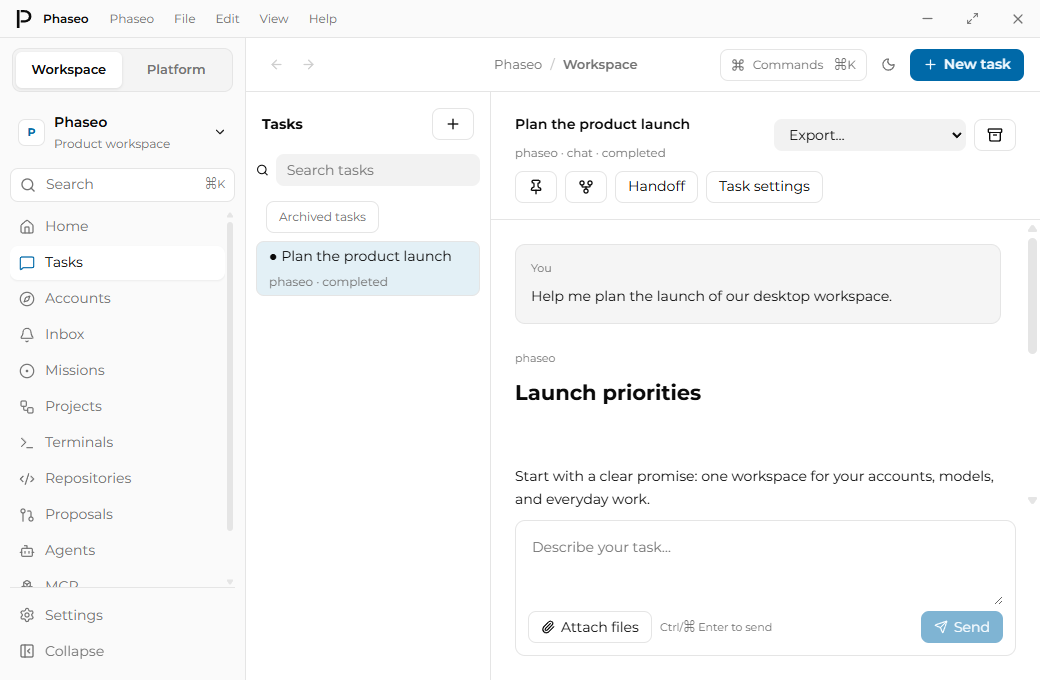
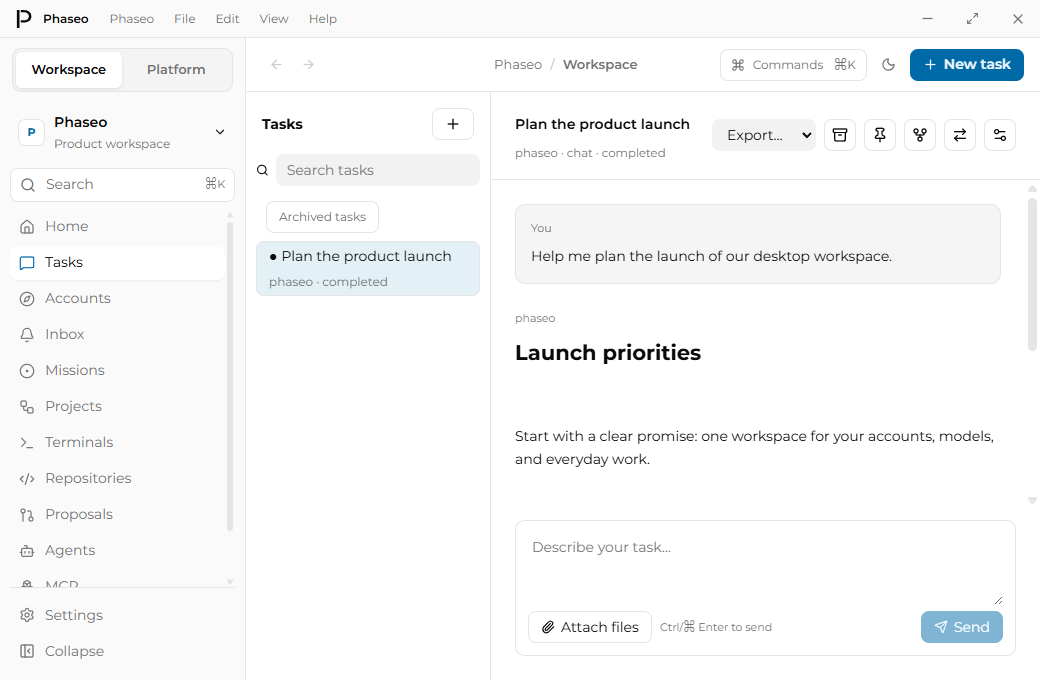
fix(desktop): simplify compact conversation toolbar

diff --git a/apps/desktop/src/renderer/views/TaskWorkspace.tsx b/apps/desktop/src/renderer/views/TaskWorkspace.tsx
@@ -1,5 +1,5 @@
 import { lazy, Suspense, useEffect, useState } from "react";
-import { Archive, ArrowDown, ArrowUp, FolderOpen, GitFork, Paperclip, Pin, Plus, Search, Send, Square, X } from "lucide-react";
+import { Archive, ArrowDown, ArrowRightLeft, ArrowUp, FolderOpen, GitFork, Paperclip, Pin, Plus, Search, Send, Settings2, Square, X } from "lucide-react";
 import type { Attachment, Harness, ModelOption, Task, Workspace, WorkspaceCommand } from "../../shared/workspace";
 import { emptyWorkspace } from "../../shared/workspace";
 import { usePersistedState } from "../lib/persistedState";
@@ -117,8 +117,8 @@ export function TaskWorkspace() {
 					<button type="button" aria-label={selected.archived ? "Restore task" : "Archive task"} disabled={selected.status === "running" || selected.status === "waiting"} onClick={() => { void command({ type: "update-task", id: selected.id, archived: !selected.archived }).then(state => { if (state) setSelectedId(undefined); }); }}><Archive size={16} /></button>
 					<button type="button" aria-label={selected.pinned ? "Unpin task" : "Pin task"} onClick={() => void command({ type: "update-task", id: selected.id, pinned: !selected.pinned })}><Pin size={16} /></button>
 					<button type="button" aria-label="Fork task history" onClick={() => { void command({ type: "fork", id: selected.id }).then(state => { if (state) setSelectedId(state.tasks.find(task => !workspace.tasks.some(existing => existing.id === task.id))?.id); }); }}><GitFork size={16} /></button>
-					<button type="button" disabled={selected.status === "running" || selected.status === "waiting"} onClick={() => { setHandoffId(selected.id); setProjectId(workspace.projects.some(project => project.id === selected.projectId && !project.worktree?.removedAt) ? selected.projectId! : ""); setMode(selected.mode); setHarness(selected.harness); setAccountId(""); setAgentId(""); setModel("default"); setSelectedId(undefined); }}>Handoff</button>
-				<button type="button" disabled={selected.archived || selected.status === "running" || selected.status === "waiting"} onClick={() => setSettingsId(value => value === selected.id ? undefined : selected.id)}>Task settings</button>
+					<button type="button" aria-label="Handoff" title="Handoff" disabled={selected.status === "running" || selected.status === "waiting"} onClick={() => { setHandoffId(selected.id); setProjectId(workspace.projects.some(project => project.id === selected.projectId && !project.worktree?.removedAt) ? selected.projectId! : ""); setMode(selected.mode); setHarness(selected.harness); setAccountId(""); setAgentId(""); setModel("default"); setSelectedId(undefined); }}><ArrowRightLeft size={16} /></button>
+				<button type="button" aria-label="Task settings" title="Task settings" aria-expanded={settingsId === selected.id} disabled={selected.archived || selected.status === "running" || selected.status === "waiting"} onClick={() => setSettingsId(value => value === selected.id ? undefined : selected.id)}><Settings2 size={16} /></button>
 				</header>
 				{settingsId === selected.id && !selected.archived && selected.status !== "running" && selected.status !== "waiting" && <TaskSettings key={selected.id} task={selected} close={() => setSettingsId(undefined)} save={async (model, mode, reasoningEffort, nativeMode) => Boolean(await command({ type: "update-task", id: selected.id, model, mode, ...(selected.harness === "codex" ? { reasoningEffort } : {}), ...(selected.harness === "acp" ? { nativeMode } : {}) }))} />}
 				<div className="task-messages" aria-live="polite">{selected.messages.length ? selected.messages.map(message => <article className={`task-message task-message-${message.role}`} key={message.id}><small>{message.role === "user" ? "You" : message.role === "assistant" ? selected.harness : message.role}</small>{message.role === "assistant" ? <MessageContent text={message.text} /> : <div>{message.text}</div>}{message.attachments?.map(attachment => <button type="button" className="attachment-chip" key={attachment.id} onClick={() => setAttachmentPreview({ taskId: selected.id, id: attachment.id })}><Paperclip size={12} />{attachment.name}</button>)}</article>) : <p className="task-muted">Send a message to start.</p>}

diff --git a/apps/desktop/src/renderer/styles.css b/apps/desktop/src/renderer/styles.css
@@ -103,7 +103,9 @@
 .task-primary:hover { background: var(--primary-hover); }
 .task-start > small { display: block; margin-top: 16px; }
 .task-toolbar { display: flex; flex-wrap: wrap; align-items: center; gap: 8px; border-bottom: 1px solid var(--border); padding: 16px 24px; }
-.task-toolbar > div { flex: 1 1 220px; min-width: 180px; }
+.task-toolbar > div { flex: 1 1 180px; min-width: 180px; }
+.task-toolbar > select { width: 104px; }
+.task-toolbar > button { width: 32px; padding-inline: 0; flex-shrink: 0; }
 .task-toolbar strong { display: block; overflow: hidden; text-overflow: ellipsis; white-space: nowrap; }
 .task-toolbar small { display: block; margin-top: 5px; color: var(--text-muted); }
 .task-toolbar .task-title { width: 100%; border: 0; padding: 0; background: transparent; color: var(--text); font: inherit; font-weight: 600; }

diff --git a/apps/desktop/docs/design-audit.md b/apps/desktop/docs/design-audit.md
@@ -6,7 +6,7 @@ Reviewed 3 October 2026 against the live Phaseo Models and Chat layouts and the 
 
 1. **Home:** replace tiny metric labels and a setup panel stretched across two empty sections with readable metrics, compact setup/running sections and a full-width recent-work list.
 2. **New task:** retain account, harness, mode and model choice; use matching input sizes, clear labels and consistent form gaps.
-3. **Conversation:** allow toolbar actions to wrap at minimum width, preserving the task title; keep message and composer backgrounds distinct. The long conversation remains scrollable.
+3. **Conversation:** keep the title and compact actions on one row at minimum width; retain named controls for assistive technology and tooltips for handoff/settings. Keep message and composer backgrounds distinct. The long conversation remains scrollable.
 4. **Accounts:** align profile actions and apply the same form rhythm and control styling as task setup.
 5. **Projects:** use matching controls, wrap project/Git actions and show selected Files/Git tabs. This visual capture covers the empty state; the separate desktop smoke covers real file/Git interactions.
 6. **Missions:** move the heading above a padded form, make instructions span both columns, separate recurring work and retain readable weekday checkboxes.
@@ -32,4 +32,4 @@ The sidebar now scrolls independently while Settings and Collapse remain accessi
 
 Run `pnpm --filter @phaseo/desktop audit:design`. Captures and DOM size/spacing observations are written to `output/playwright/design-audit/after`. The audit waits for the selected page heading before capturing. It covers ten pages plus the sample conversation at 1440×920 and 1040×680 in light and dark modes.
 
-Focus rings, larger labels and current-page semantics improve readability and navigation. Screenshots do not verify screen-reader operation, complete keyboard focus management, contrast in every state, Windows scaling, macOS/Linux rendering, large histories, or live provider sign-in. Those remain separate checks. The minimum-size conversation toolbar still uses two rows; a future action menu may reduce its visual density once all action accessibility requirements are verified.
+Focus rings, larger labels and current-page semantics improve readability and navigation. Screenshots do not verify screen-reader operation, complete keyboard focus management, contrast in every state, Windows scaling, macOS/Linux rendering, large histories, or live provider sign-in. Those remain separate checks.
